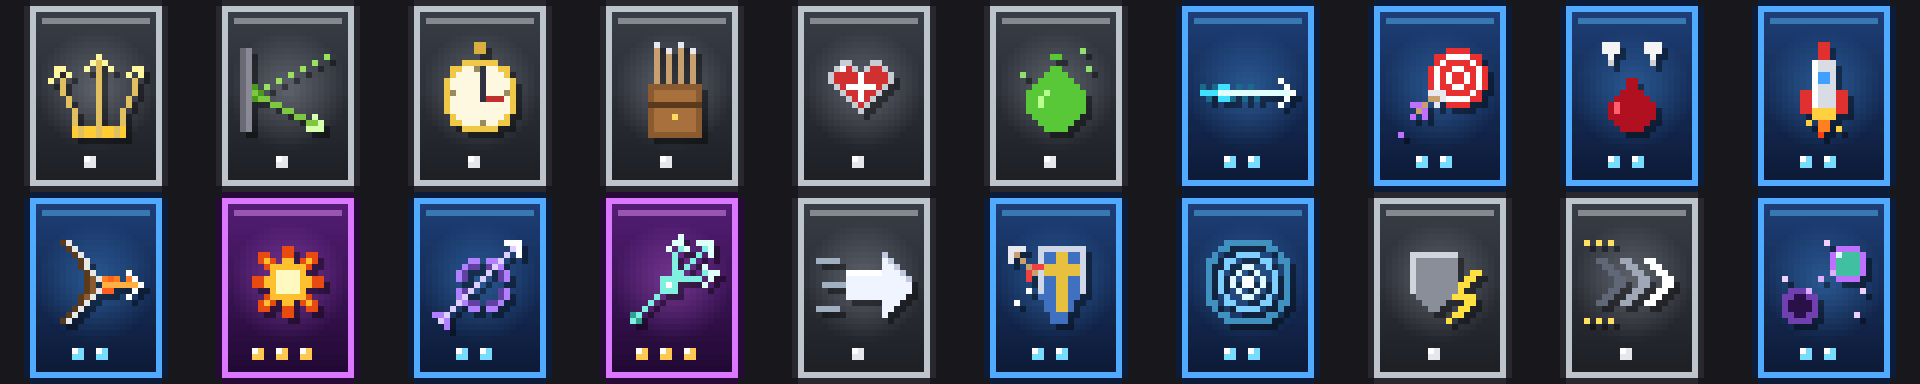
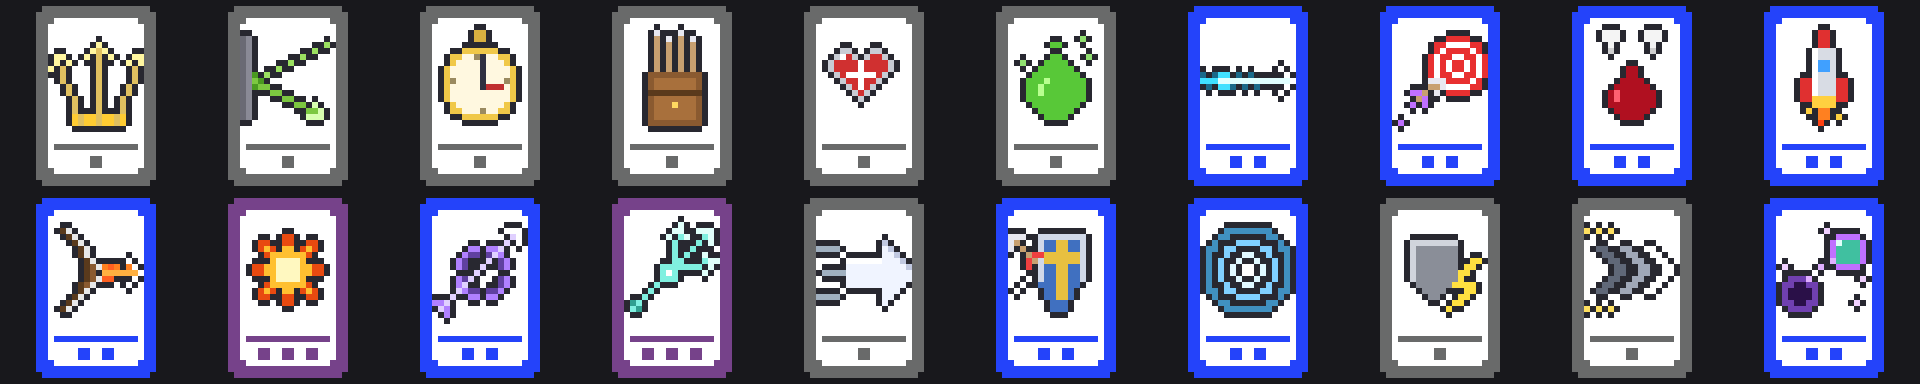
Use the hand-drawn card frames for card textures
Claude-Session: https://claude.ai/code/session_013AfTTR35t2sp3NT8DdSHva

diff --git a/resourcepack/generate.py b/resourcepack/generate.py
@@ -21,13 +21,6 @@ CARDS = {
     "dash": "common", "blink_guard": "rare",
 }
 
-RARITY = {
-    # 外枠, 枠の明るい色, 背景(上), 背景(下), 宝石
-    "common": ((40, 40, 46), (190, 196, 204), (58, 62, 72), (28, 30, 36), (230, 230, 235)),
-    "rare": ((14, 28, 60), (80, 170, 255), (30, 64, 120), (12, 24, 52), (120, 220, 255)),
-    "epic": ((40, 10, 56), (220, 120, 255), (86, 30, 120), (30, 8, 48), (255, 200, 80)),
-}
-
 
 def rgb(h):
     return tuple(int(h[i:i + 2], 16) for i in (1, 3, 5)) + (255,)
@@ -288,54 +281,29 @@ def icon(name):
     return c.img
 
 
+FRAMES = os.path.join(os.path.dirname(os.path.abspath(__file__)), "frames")
+CUSTOM = os.path.join(os.path.dirname(os.path.abspath(__file__)), "custom")
+OUTLINE = (40, 40, 48, 255)
+
+
 def card_texture(name, rarity):
-    outline, frame, top, bottom, gem = RARITY[rarity]
-    img = Image.new("RGBA", (32, 32), (0, 0, 0, 0))
-    x0, x1, y0, y1 = 4, 27, 0, 31
-    for y in range(y0, y1 + 1):
-        t = (y - y0) / (y1 - y0)
-        bg = tuple(round(top[i] * (1 - t) + bottom[i] * t) for i in range(3)) + (255,)
-        for x in range(x0, x1 + 1):
-            img.putpixel((x, y), bg)
-    # 中央をほんのり明るく
-    for y in range(y0, y1 + 1):
-        for x in range(x0, x1 + 1):
-            d = math.hypot(x - 15.5, y - 14.5)
-            if d < 10:
-                r, g, b, a = img.getpixel((x, y))
-                k = (10 - d) / 10 * 0.35
-                img.putpixel((x, y), (round(r + (frame[0] - r) * k), round(g + (frame[1] - g) * k), round(b + (frame[2] - b) * k), 255))
-    # 外枠と枠（角を丸める）
-    for y in range(y0, y1 + 1):
-        for x in range(x0, x1 + 1):
-            edge = min(x - x0, x1 - x, y - y0, y1 - y)
-            corner = min(x - x0, x1 - x) + min(y - y0, y1 - y)
-            if corner == 0:
-                img.putpixel((x, y), (0, 0, 0, 0))
-            elif edge == 0 or corner == 1:
-                img.putpixel((x, y), outline + (255,))
-            elif edge == 1 or corner == 2:
-                img.putpixel((x, y), frame + (255,))
-    # 上の飾り線
-    for x in range(x0 + 3, x1 - 2):
-        img.putpixel((x, 3), tuple(round(c * 0.7) for c in frame) + (255,))
-    # アイコン（影つき）
+    """カードの枠（frames/<レア度>.png）の白い部分にアイコンを置く。custom/<名前>.png があればそれをそのまま使う。"""
+    custom = os.path.join(CUSTOM, name + ".png")
+    if os.path.exists(custom):
+        return Image.open(custom).convert("RGBA")
+    img = Image.open(os.path.join(FRAMES, rarity + ".png")).convert("RGBA")
     ic = icon(name)
-    shadow = Image.new("RGBA", (16, 16), (0, 0, 0, 0))
+    ox, oy = 8, 5  # 枠の内側（白い部分）は x 8〜23, y 3〜23。アイコン(16x16)をその中に置く
+    inside = lambda x, y: img.getpixel((x, y))[:3] == (255, 255, 255)
+    # 白い背景でも見えるように、アイコンのまわりを1ドット縁取りする（枠にははみ出さない）
     for y in range(16):
         for x in range(16):
             if ic.getpixel((x, y))[3] > 0:
-                shadow.putpixel((x, y), (0, 0, 0, 110))
-    img.alpha_composite(shadow, (9, 8))
-    img.alpha_composite(ic, (8, 7))
-    # 下部にレア度の宝石（コモン1・レア2・エピック3）
-    count = {"common": 1, "rare": 2, "epic": 3}[rarity]
-    start = 16 - count * 2 + 1
-    for i in range(count):
-        gx = start + i * 4 - 1
-        for dx, dy in ((0, 0), (1, 0), (0, 1), (1, 1)):
-            img.putpixel((gx + dx, 26 + dy), gem + (255,))
-        img.putpixel((gx, 26), (255, 255, 255, 255))
+                for dx, dy in ((1, 0), (-1, 0), (0, 1), (0, -1)):
+                    px, py = ox + x + dx, oy + y + dy
+                    if inside(px, py):
+                        img.putpixel((px, py), OUTLINE)
+    img.alpha_composite(ic, (ox, oy))
     return img
 
 

diff --git a/README.md b/README.md
@@ -71,7 +71,7 @@ gradle build
 
 カードには専用の絵柄があります（[一覧](resourcepack/preview.png)）。サーバーに入ると「カードの絵柄を表示するリソースパック」を読み込むか聞かれ、許可した人には3Dのカード選択・カード画面・能力一覧がこの絵柄で表示されます。断った人はこれまでどおりバニラのアイテムで表示されます。
 
-パックは GitHub の最新リリース（`BowRounds-pack.zip`）から自動で配られるので、サーバー側の設定は不要です。`config.yml` の `resource-pack` で無効化や必須化（断ったら入れない）ができます。絵柄は `python3 resourcepack/generate.py` で作り直せます。
+パックは GitHub の最新リリース（`BowRounds-pack.zip`）から自動で配られるので、サーバー側の設定は不要です。`config.yml` の `resource-pack` で無効化や必須化（断ったら入れない）ができます。絵柄は `python3 resourcepack/generate.py` で作り直せます。カードの枠は `resourcepack/frames/`（common / rare / epic）、自分で描いたカードは `resourcepack/custom/<カード名>.png` に置くと、そのカードだけ差し替わります。
 
 ## カード選択
 
